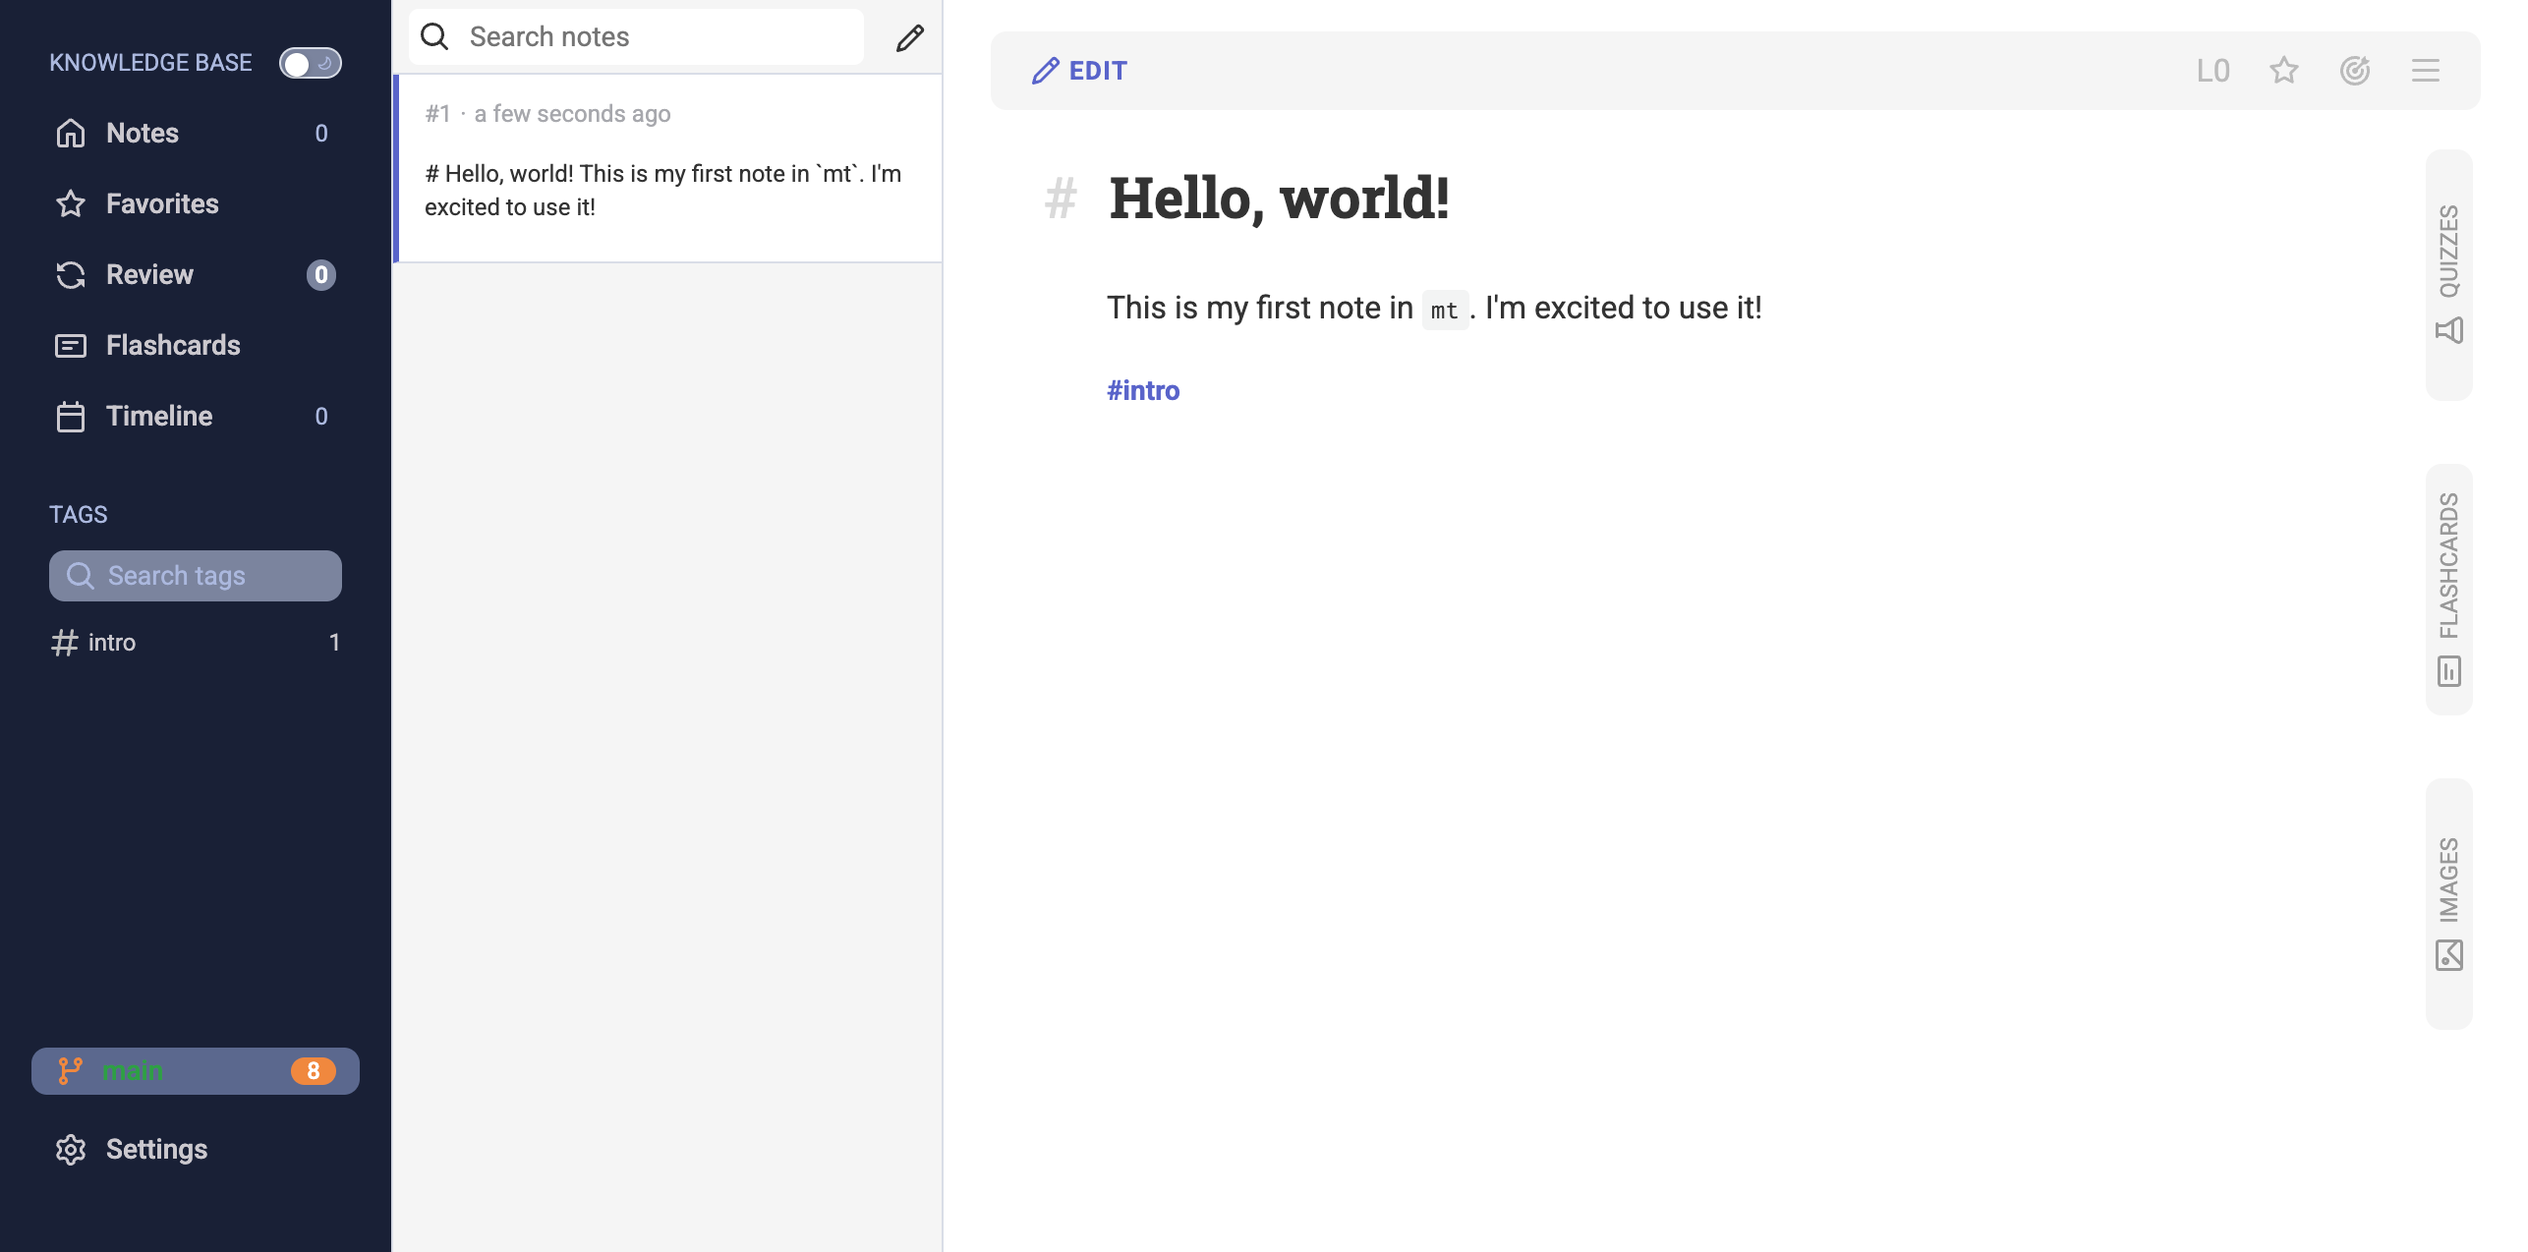
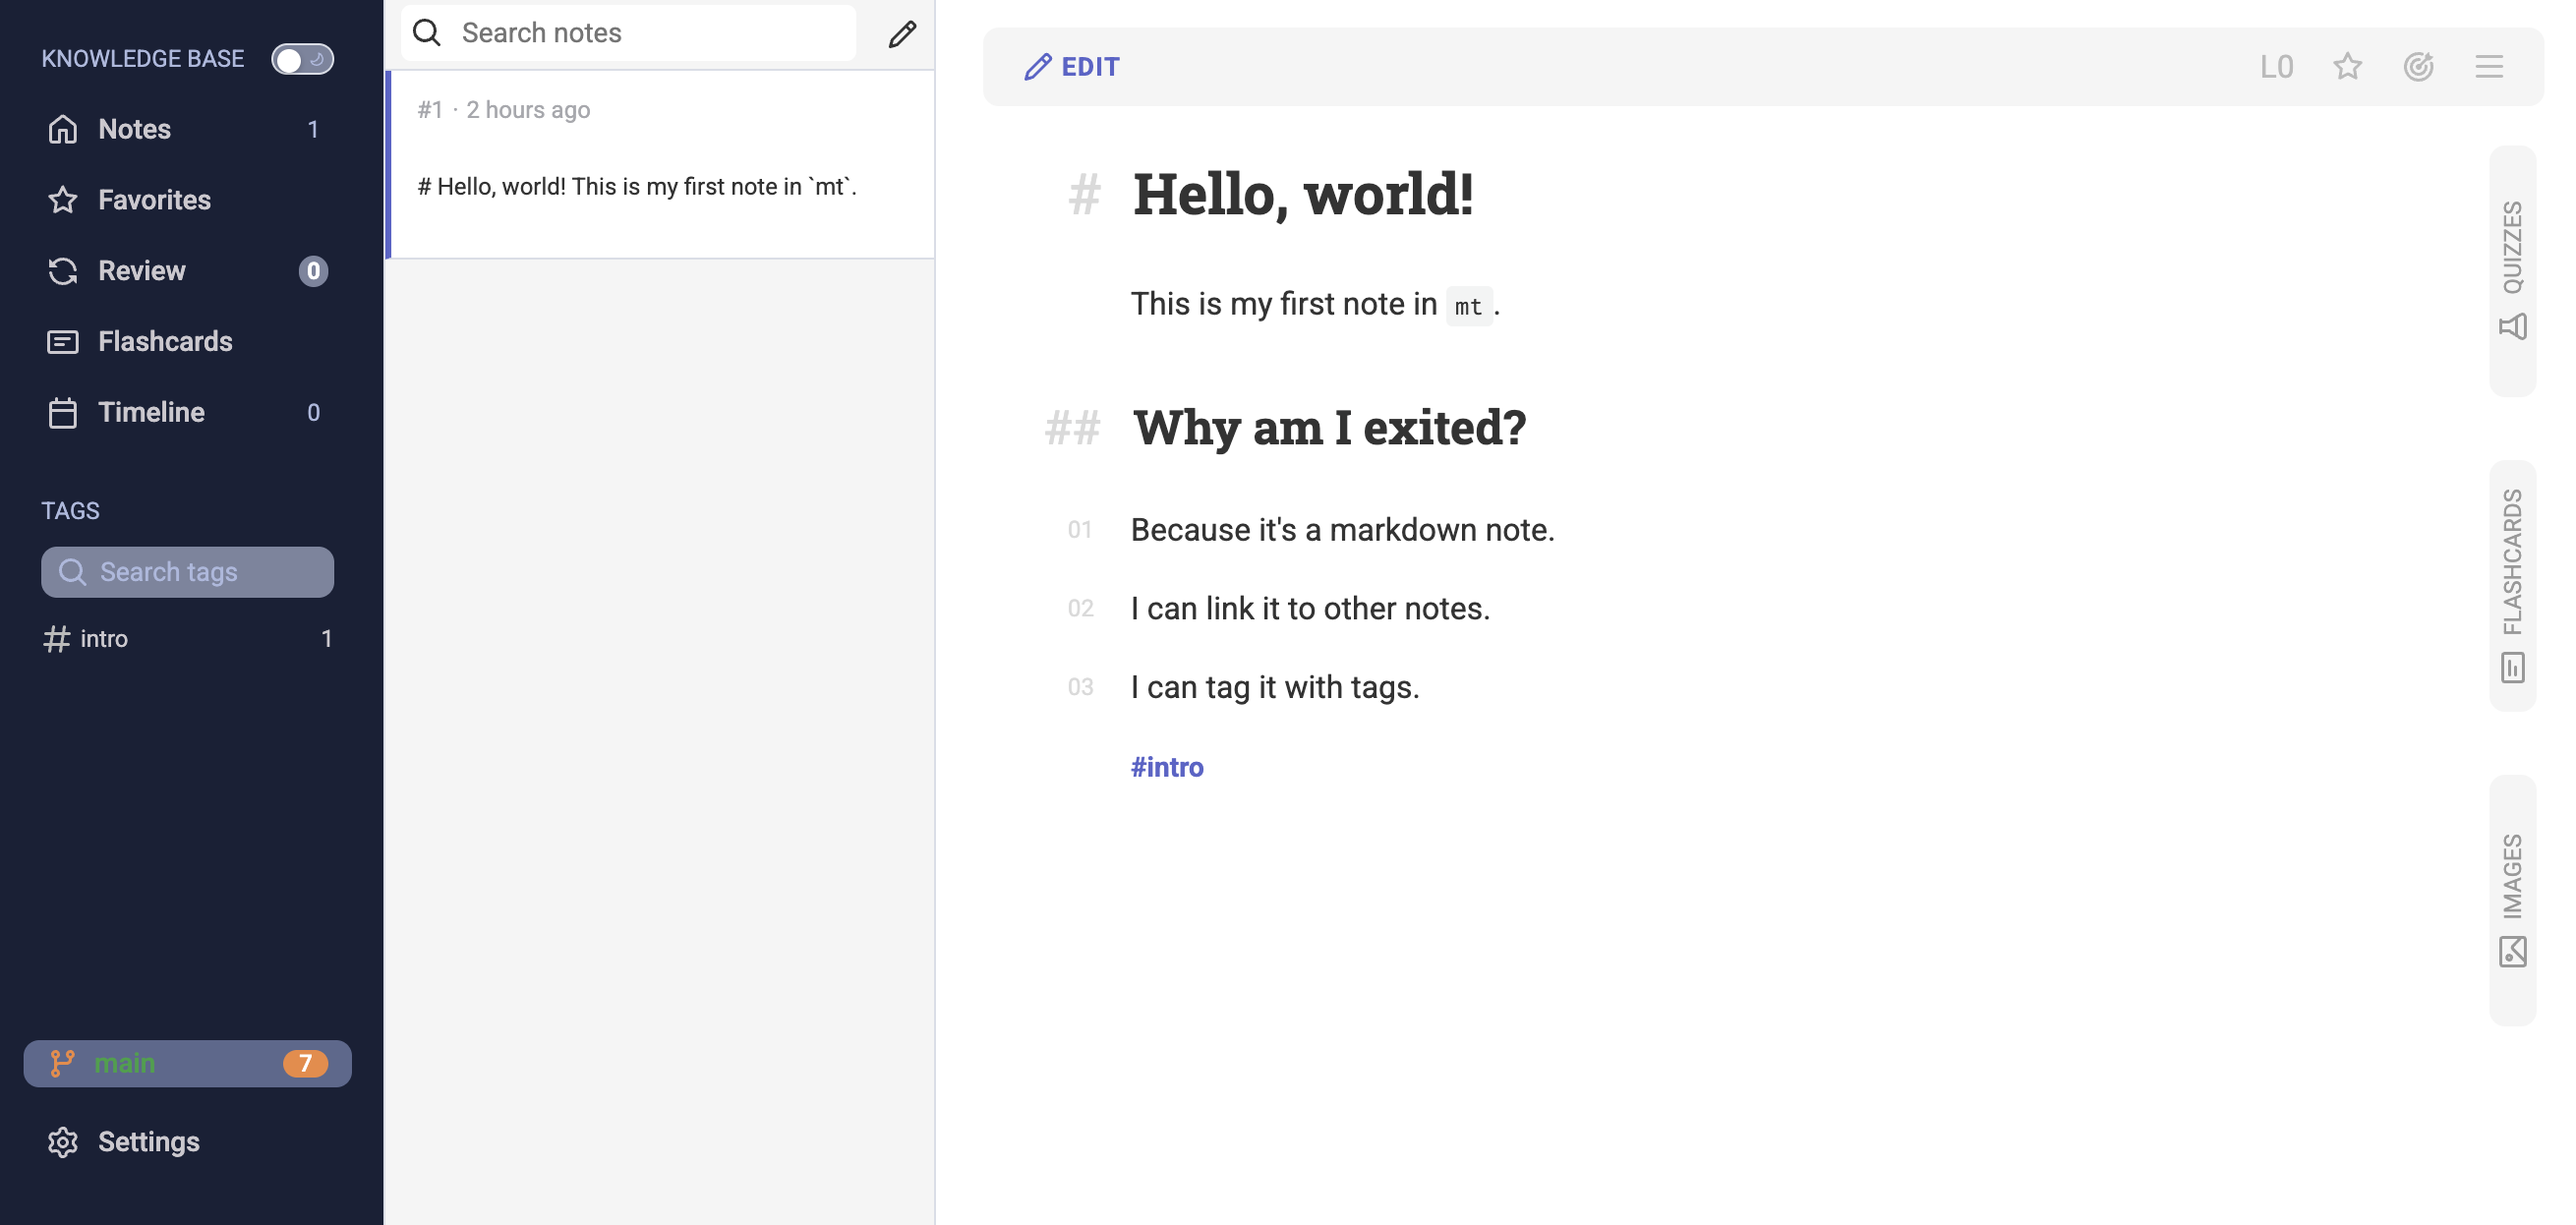
docs: more docs

diff --git a/docs/notes/2_create_your_first_note.md b/docs/notes/2_create_your_first_note.md
@@ -1,0 +1,82 @@
+---
+created_at: 2026-02-09
+updated_at: 2026-02-10T21:11:42.912Z
+favorite: false
+last_reviewed_at: 2026-02-09
+level: 1
+seo_title: Create First Note
+seo_description: Learn how to create your first note in `mt`. This guide will walk you through the basics of writing and tagging your notes for easy organization.
+seo_published: true
+seo_category: docs
+seo_slug: create-first-note
+---
+
+# Create your first note
+
+In `mt` everything is a markdown note.
+
+Markdown by itself gives us a lot of power. We can use headings, lists, links, images. Here's a nice cheatsheet for markdown syntax: [Markdown Cheatsheet](https://github.com/adam-p/markdown-here/wiki/markdown-cheatsheet).
+
+So let's create a simple note. Click on the pencil icon, and write something like this:
+
+```markdown
+# Hello, world!
+
+This is my first note in `mt`.
+
+## Why am I exited?
+
+1. Because it's a markdown note.
+2. I can link it to other notes.
+3. I can tag it with tags.
+
+#intro
+```
+
+![Your first note](2__note_01.png)
+
+A note can have a tag (like `#intro`) anywhere within it's body. While I prefer to put them at the end, you can put them anywhere. Once you click save, the note will, the tag list on the left will update and show you the new tag. In order to filter notes by tag, just click on the tag in the list.
+
+## Linking notes
+
+Links are a first-class citizen in `mt`, and they are the key to build a good knowledge graph. A link to another note can be created like `[link to another note](123)`. Here `123` is the id of the note you want to link to. Ids are unique and sequential. You can check the ID of a note in the notes section.
+
+Let's add a second note, and link it to the first one:
+
+```markdown
+# My second note
+
+This is my second note.
+
+Here I'm going to reference [the first note](1).
+```
+
+Once you add the link, you can click on it, and it will show up in a preview on the right. From that preview if required you can click on the "Edit" link, and it will take you to the note.
+
+![A note preview](2__linked.png)
+
+## Storage
+
+Now that we have created our first notes, how are they stored in the file system?
+
+By default, `mt` stores notes in the `~/mt` directory. If we list the files we will see:
+
+```
+notes/1_hello_world.md
+notes/2_my_second_note.md
+```
+
+So the note filename starts with the note id, followed by an underscore, and then a underscored version of the note title (first `#` header). You can edit the files in any other editor. Just make sure to not change the id, as some other notes might be linking to it.
+
+You also might wanna initialize a `git` repo in this directory. I backup my notes to a private GitHub repository, and I can easily sync them across devices.
+
+### Changing the storage directory
+
+You can override this by setting the `MT_HOME` environment variable to a different path.
+
+It also comes handy, as you can have multiple knowledge bases, and you can switch between them by changing the `MT_HOME` variable. For example, right now I have started `mt` with `MT_HOME=./docs`, because this is where the docs project is located.
+
+## Next
+
+Now, let's move on to the next chapter, and [learn how does the reviewing works](3).
+

diff --git a/docs/notes/1_introduction.md b/docs/notes/1_introduction.md
@@ -1,6 +1,6 @@
 ---
 created_at: 2026-02-09
-updated_at: 2026-02-10T17
+updated_at: 2026-02-10T20:48:23.996Z
 favorite: false
 last_reviewed_at: 2026-02-09
 level: 1
@@ -12,17 +12,17 @@ seo_slug: introduction
 ---
 # Introduction
 
-`mt` is an advanced tool that help us facilitate the learning process and organize the knowledge efficiently. It's like a knowledge manager meets spaced repetition kind of tool. `mt` provides a set of tools on top of your notes (spaced-repetition, anki-like flashcards, quizes, etc.). It uses AI where it can help, without messing up with the knowledge acquisition process.
+`mt` is a tool that help us facilitate the learning process and organize the knowledge efficiently. In other words, it's a "knowledge manager meets spaced repetition" kind of tool.
 
-![an interface](1__note_01.png)
+![mt's UI interface](1__mt.png)
 
-The main goal of `mt` is to help you learn and retain information effectively, without overwhelming you with unnecessary features or distractions.
+`mt` provides a set of tools on top of your notes (spaced-repetition, [Anki](https://apps.ankiweb.net/)-like flashcards, quizes, etc.). It uses AI where it can help, without messing up with the knowledge acquisition process.
 
-In the heart of it, `mt` is just an interface to markdown files that are stored in a directory on your computer. Markdown files are surprizingly powerful. Not only they let us structure the information using headers, lists, tables, etc., but they are also easy to extend. We support code blocks with syntax highlighting, mermaid diagrams, and more. Links are a first-class citizen in `mt`, and they are the key to build a good knowledge graph.
+But the main goal of `mt` is this — help you **learn** and **retain** information effectively.
 
-A link to another note can be created like `[link to another note](123)`. Here `123` is the id of the note you want to link to. Tags are simple words that start with `#`, for example `#tag`. They can be anywhere inside the note, and used to organize your notes in a way that makes sense to you. Learn more about markdown syntax in the [markdown section](#markdown).
+In the heart of it, `mt` is just an interface to markdown files that are stored in a directory on your computer. Markdown files are surprizingly powerful. Not only they let us structure the information using headers, lists, tables, etc., but they are also easy to extend. We support code blocks with syntax highlighting, mermaid diagrams, and more.
 
-![tags](tags.png)
+Learn more in [Create Your First Note](1) section.
 
 Once you add a note it enters a review schedule, that is the system reminds you to review the note at optimal intervals to maximize retention. Reviewing a note is as simple as opening it, reading it, and marking it as reviewed. For more information on how the review schedule works, check the [reviewing section](#reviewing).
 

diff --git a/docs/notes/3_reviewing_notes.md b/docs/notes/3_reviewing_notes.md
@@ -1,0 +1,18 @@
+---
+created_at: 2026-02-10T21
+updated_at: 2026-02-10T21
+favorite: false
+last_reviewed_at:
+level: 0
+seo_title: Reviewing Notes
+seo_description: Learn about reviewing notes in `mt` to enhance your learning and retention. Discover how spaced repetition works and how it can help you remember information more effectively.
+seo_published: true
+seo_category: docs
+seo_slug: reviewing-notes
+---
+
+# Reviewing notes
+
+As I wrote in the [introduction](1), `mt` marries a knowledge base with a spaced repetition.
+
+What is exactly is **spaced repetition**?
